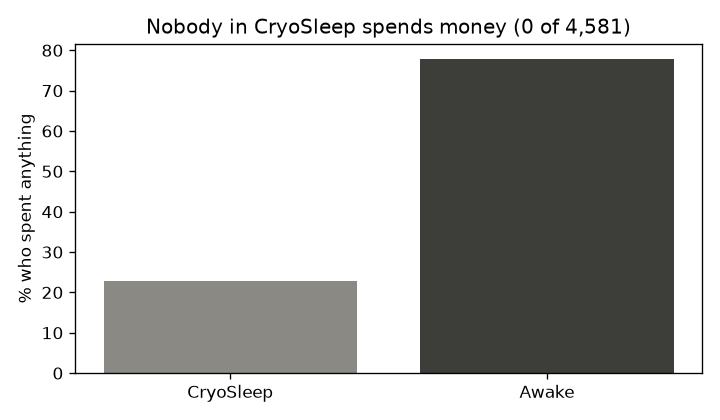
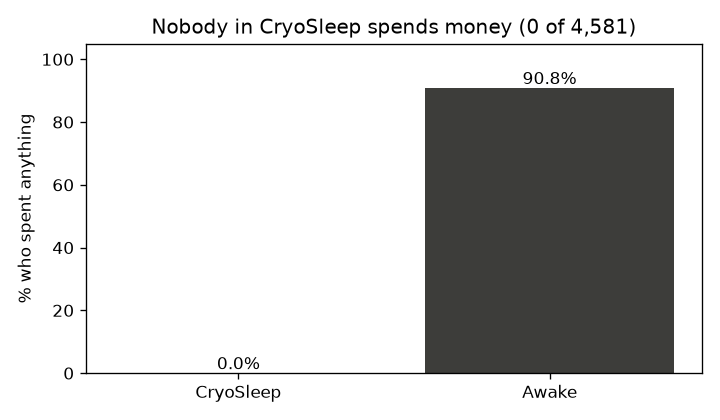
fix(role2): chart 03 mixed train and test rows with the same index
pd.concat of train and test kept both files' 0-based row labels, so
spend.loc[g.index] also picked up the other file's rows and showed ~23%
of sleepers spending. Use ignore_index=True in both concats and label
the bars. Chart now shows 0.0% vs 90.8%; eda_findings.txt is unchanged.
Reported by Role 5.

diff --git a/01_explore.py b/01_explore.py
@@ -120,7 +120,9 @@ def missing_values(train, test):
 
 def data_quality(train, test):
     section("4. Data quality")
-    both = pd.concat([train.drop(columns=TARGET), test])
+    # ignore_index: the two files both number their rows 0, 1, 2...; without it, a
+    # lookup by row label would also pick up the other file's rows.
+    both = pd.concat([train.drop(columns=TARGET), test], ignore_index=True)
     dup_rows = train.drop(columns=ID_COL).duplicated().sum()
     dup_ids = both[ID_COL].duplicated().sum()
     neg = (both[SPEND_COLUMNS] < 0).sum().sum()
@@ -159,7 +161,9 @@ def data_quality(train, test):
     fig, ax = plt.subplots(figsize=(6, 3.5))
     groups = {"CryoSleep": both.loc[cryo == True], "Awake": both.loc[cryo == False]}
     shares = [(spend.loc[g.index] > 0).mean() * 100 for g in groups.values()]
-    ax.bar(list(groups), shares, color=[GREY, DARK])
+    bars = ax.bar(list(groups), shares, color=[GREY, DARK])
+    ax.bar_label(bars, fmt="%.1f%%")  # labels make the 0% bar visible
+    ax.set_ylim(0, 105)
     ax.set_ylabel("% who spent anything")
     ax.set_title(f"Nobody in CryoSleep spends money ({cryo_spend} of {cryo_n:,})")
     save(fig, "03_cryosleep_spending.png")
@@ -293,7 +297,9 @@ def feature_vs_target(train):
 
 def id_columns(train, test):
     section("7. ID-like columns and travel groups")
-    both = pd.concat([train.drop(columns=TARGET), test])
+    # ignore_index: the two files both number their rows 0, 1, 2...; without it, a
+    # lookup by row label would also pick up the other file's rows.
+    both = pd.concat([train.drop(columns=TARGET), test], ignore_index=True)
     name_unique = both["Name"].nunique() / both["Name"].notna().sum()
     cabin_unique = both["Cabin"].nunique() / both["Cabin"].notna().sum()
     print(f"Name: {both['Name'].nunique():,} unique of {both['Name'].notna().sum():,} non-missing")

diff --git a/reports/role2_data_baseline.md b/reports/role2_data_baseline.md
@@ -53,7 +53,7 @@ Fit time changes slightly with each run; the values above are the ones in the co
 |---|---|---|
 | `01_target_balance.png` | Classes are balanced: 50.4% transported | Data overview |
 | `02_missing_values.png` | Every column is ~2% missing, the same in train and test | Data cleaning |
-| `03_cryosleep_spending.png` | Nobody in CryoSleep spends money (0 of 4,581) | Data cleaning (rule-based fill) |
+| `03_cryosleep_spending.png` | Nobody in CryoSleep spends money: 0.0% of sleepers vs 90.8% of awake passengers (0 of 4,581) | Data cleaning (rule-based fill) |
 | `04_train_vs_test.png` | Train and test look alike, so the model should generalise | EDA / generalisation |
 | `05_rate_by_category.png` | CryoSleep, deck and home planet change the transported rate the most | EDA findings |
 | `06_spending_vs_target.png` | Passengers who spend are transported far less often | EDA findings |
@@ -76,6 +76,7 @@ Fit time changes slightly with each run; the values above are the ones in the co
 - My first claim that "group members share their outcome" was weak: 44% of groups all agree vs 41% by chance. I reworded it: the case for GroupKFold rests on shared features and on test groups being unseen, not on shared outcomes.
 - The coefficient chart's first title named CryoSleep, which isn't in the top 3. I retitled it from the actual coefficients.
 - Review notes → fixes: the EDA now derives the fill rules from train alone and uses test only as confirmation. It imports `SPEND_COLUMNS`/`CHILD_AGE` from `features.py` so the evidence and the features can't drift apart. Cabin splitting no longer crashes on a batch with no Cabin values. Charts comparing train vs test now use neutral colours, keeping blue/orange for the target.
+- Role 5 found that chart 03 showed about 23% of sleepers spending, contradicting its title. The cause was `pd.concat` of train and test without `ignore_index=True`: both files number their rows from 0, so looking up the sleepers' rows by label also picked up the other file's rows. The fix was `ignore_index=True` in both concats in `01_explore.py`. The chart now shows 0.0% vs 90.8%. Every number in `eda_findings.txt` was already correct and is unchanged. Lesson: open every chart, not just a sample, and check it against the printed numbers.
 - The packages weren't installed on my machine. I created `.venv` and installed `requirements.txt` (Python 3.14).
 
 ## 8. Likely Q&A questions
